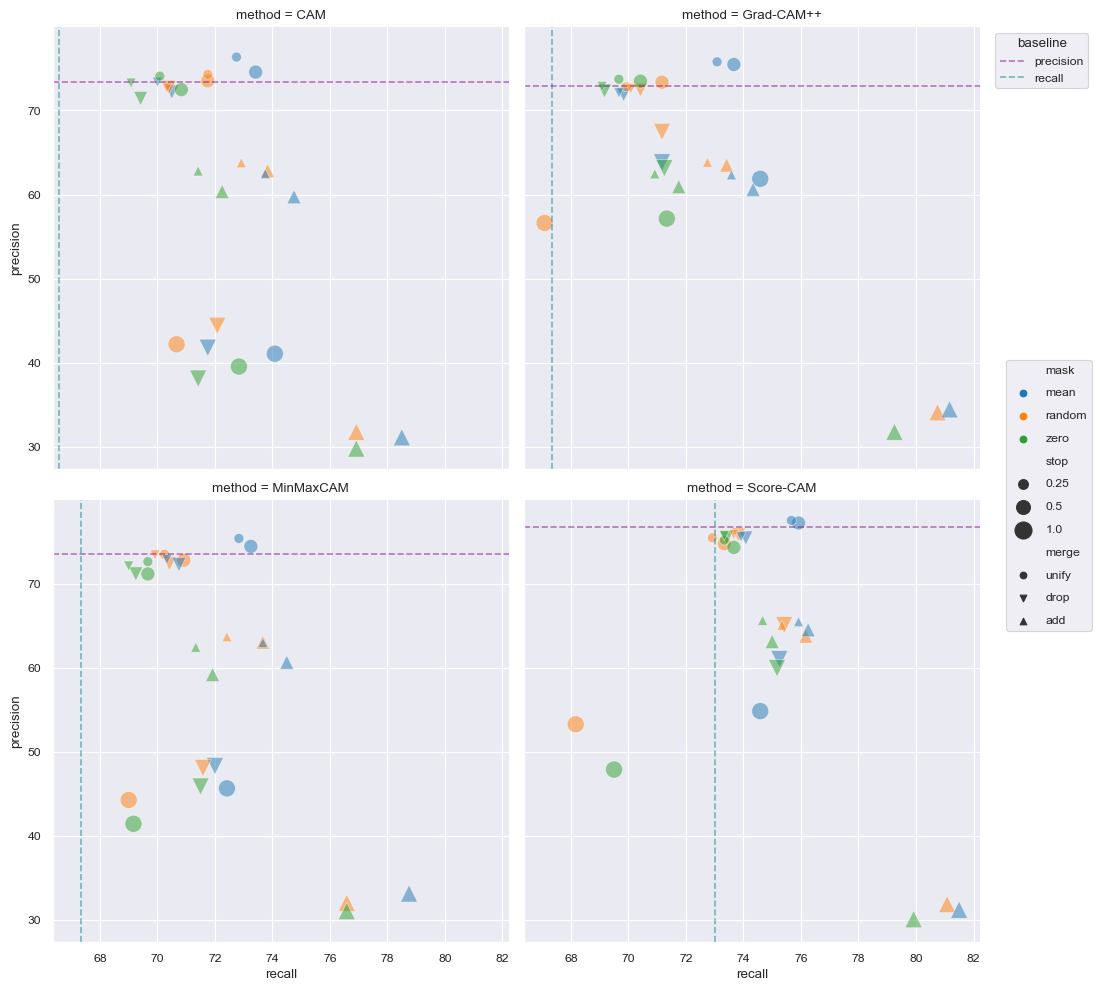
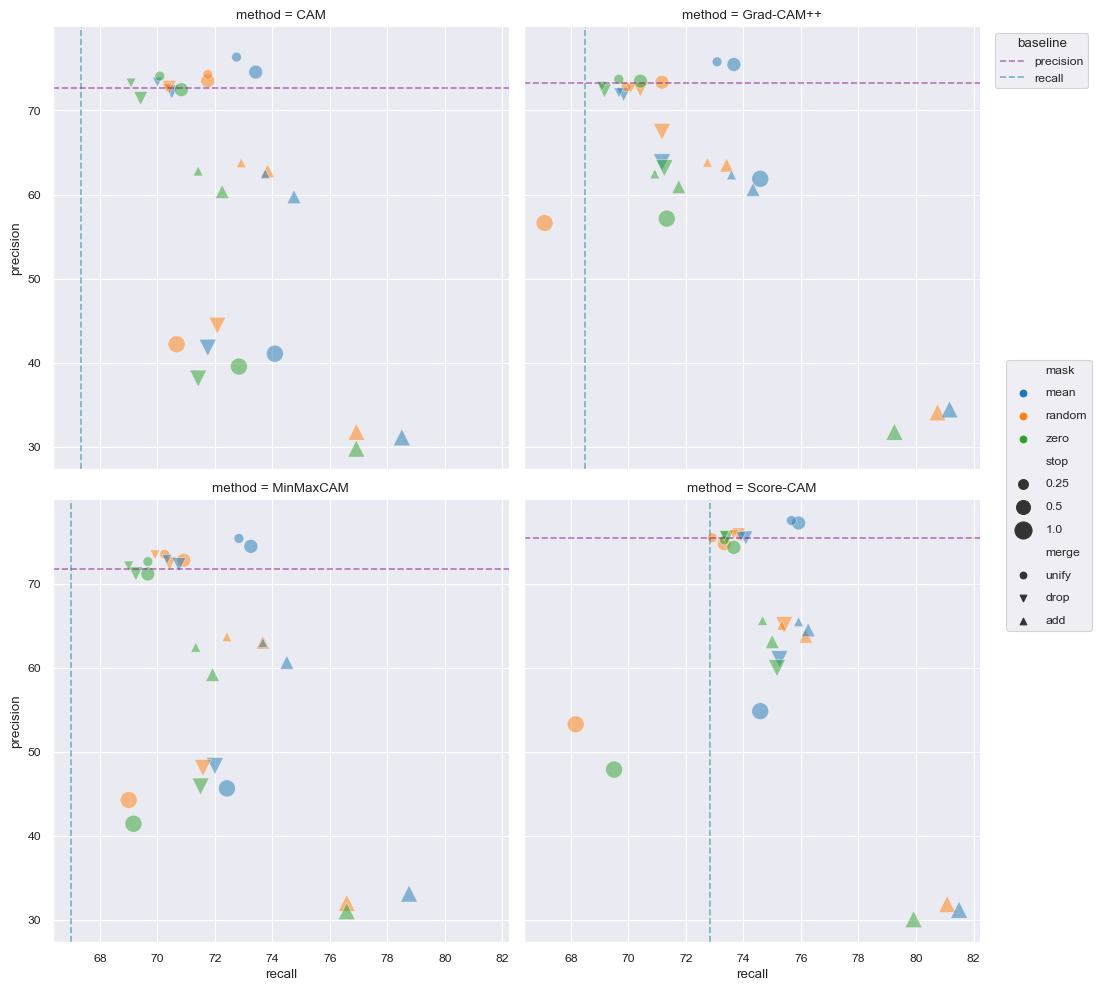
dissertation: discussion, conclusion, summary

diff --git a/docs/dissertation/chapters/experiments.tex b/docs/dissertation/chapters/experiments.tex
@@ -337,18 +337,15 @@ Each method computes a score map as a weighted combination of feature maps in th
 
 The most computationally costly method by far is Score-CAM. This method computes the weights for the feature maps by feeding the network with the product of each feature map with the original image to obtain the classification score after softmax. The classification scores are then used as weights. As ResNet-50 has 2048 channels in its final convolutional layer, this is an expensive operation.
 
-\section{Localization improvements}
+\section{Localization improvements} \label{sec:exp_loc_improvements}
 
 Using the iterative localization method proposed in section \ref{sec:method_localization_improvement}, we analyze the effect of this method for VGG16-GAP and ResNet-50 architectures on the synthetic and ImageNet datasets. We use the same models that were trained for the non-iterative approach.
 
 \subsection{Recall versus precision}
-The aim of the iterative approach is to maximize the accurate localization of ground truth object instances. This is measured by the recall metric. If we would have a localization method that exhaustively generates bounding boxes of different granularity, then such method would accurately localize most object instances and thus have a high recall. At the same time this method would suffer from a lot of false positives, i.e., many localized objects would not match with the actual ground truth instances. Hence, the precision would be low.
-
-To measure the impact of the iterative localization method we want to measure both precision and recall. Ideally, we would like to have a localization method that has good precision and recall. If we equally care about precision and recall, the f1 score represents the harmonic mean between precision and recall.
+The aim of the iterative approach is to improve the accurate localization of ground truth object instances. This localization accuracy is measured by the MaxBoxAccV3 metric, i.e. the recall. If we would have a localization method that exhaustively generates bounding boxes of different granularity, then such method would accurately localize most object instances and thus have a high recall value. At the same time this method would suffer from a lot of false positives, i.e., many of the predicted object localization instances would not match with the actual ground localization annotations. Hence, precision would be very low. To measure the impact of the iterative localization method we want to measure both precision and recall. Ideally, we would like to have a localization method that has good precision and recall.
 
 \subsection{Evaluation approach}
-
-As illustrated in Table \ref{tab:iterative_localizaton_parameters}, the number parameter combinations for iterative localization experiments is too large to draw conclusions from in a single table overview. 
+In our iterative localization approach, we apply different mask strategies, bounding box merge strategies and iteration stop criteria in our experiments. The different parameters and their possible values are illustrated in Table \ref{tab:iterative_localizaton_parameters}. Due to the number of possible parameter combinations, we have to compare a lot of results. It is not feasible to represent these results in a single table and draw conclusions from it.
 
 \begin{table}[ht]
 \centering
@@ -368,9 +365,9 @@ Classification score drop threshold & 0.25, 0.5, 1.0 \\
 
 Therefore we graphically represent and interpret the results as follows:
 \begin{itemize}
-    \item Per dataset, network and localization method, we plot a two-dimensional plot with precision on the  vertical axis and recall on the horizontal axis for the different mask strategies, merge strategies and stop criteria.
+    \item Per dataset, network and localization method, we create a two-dimensional plot with recall on the horizontal axis and precision on the vertical axis. In this plot, for each of the different combinations of mask strategies, merge strategies and stop criteria, an experiment is run and its resulting precision and recall are added to the plot.
     \item The precision and recall for the non-iterative approach is plotted as two orthogonal lines: A horizontal line for precision and vertical line for recall. We use the precision and recall from the non-iterative approach as baseline to compare with results from the iterative approach.
-    \item The horizontal and vertical lines of the baseline create four quadrants which allow easy graphical interpretation of iterative localization results, depending in which quadrant a result is plotted.
+    \item The horizontal and vertical lines of the baseline create four quadrants which allow easy graphical interpretation of iterative localization results depending in which quadrant a result is situated.
     \begin{itemize}
         \item Bottom left: Precision and recall are worse than the baseline.
         \item Top left: Precision is better and recall is worse than baseline.
@@ -380,51 +377,51 @@ Therefore we graphically represent and interpret the results as follows:
 \end{itemize}
 
 \subsection{Evaluation for VGG16-GAP on synthetic datasets}
-Here we evaluate the results of the iterative localization for the VGG16-GAP network on the synthetic test datasets. We only tests the datasets that have images with a background to evaluate the effect of using different bounding box mask strategies. The localization methods used are CAM, Grad-CAM++, Score-CAM and MinMaxCAM. The former three methods are evaluated on a model trained without regularization while the latter is evaluated on a model trained with MinMaxCAM regularization.
+Here we evaluate the results of the iterative localization for the VGG16-GAP network on the synthetic test datasets. We only evaluate datasets that have images with a background to analyse the effect of using different bounding box mask strategies. The localization methods used are CAM, Grad-CAM++, Score-CAM and MinMaxCAM. The former three methods are evaluated on a model trained without regularization while the latter is evaluated on a model trained with MinMaxCAM regularization.
 
 The MaxBoxAccV3 precision and recall of the iterative localization experiments for the different localization methods, mask strategies, merge strategies and iteration stop criteria on the synthetic dataset d1b, are illustrated in Fig. \ref{fig:prec_iter_vgg16_gap_syn_d1b}.
 
 \begin{figure}[ht]
     \begin{center}       
     \includegraphics[width=1.0\textwidth]{images/fig_iter_vgg16_gap_syn_d1b.png}
-    \caption[Iterative localization performance for VGG16-GAP on synthetic dataset d1b]{Iterative localization performance for VGG16-GAP on synthetic datasets d1b. The cross-hair lines mark the best precision and recall for non-iterative localization.}
+    \caption[Iterative localization performance for VGG16-GAP on synthetic dataset d1b]{Iterative localization performance for VGG16-GAP on synthetic dataset d1b. The cross-hair lines mark the best precision and recall for non-iterative localization.}
     \caption*{Source: Author}
     \label{fig:prec_iter_vgg16_gap_syn_d1b}
     \end{center}
 \end{figure}
 
-For all methods we observe that precision is worse than the baseline as no result exists above the baseline precision line. Recall is improved by the iterative localization for CAM, Grad-CAM++ and Score-CAM when using the drop or add merge strategy. The 'add' strategy comes at a greater precision cost, as this strategy will create more false positives. The 'drop' strategy improves recall at the smallest precision cost when the classification score drop threshold 0.25 or 0.5 is used. As threshold 1.0 actually means that there is no stop criterion, it's easy to see that this threshold has the worst precision for any mask or merge strategy. The small gain in recall is to be expected for a dataset with single-instance object images where the non-iterative approach already has a high localization performance.
+When comparing with the baseline, we observe that for all methods except MinMaxCAM, both precision and recall can be improved by using the 'drop' merge strategy, when the classification score drop threshold 0.25 is used. As threshold 1.0 actually means that there is no stop criterion, it's easy to see that this threshold has the worst precision for any mask or merge strategy. The 'add' merge strategy improves recall but at a decreased precision cost, as this strategy will create more false positives. The relatively small gain in recall is to be expected for a dataset with single-instance object images where the baseline already has a high localization performance.
 
-Iterative localization results for the d2b dataset are shown in Fig. \ref{fig:prec_iter_vgg16_gap_syn_d2b}. Looking at the upper right quadrant, we can observe that there are iterative localization methods that improve both precision and recall. The iterative methods applying the mean mask strategy, unify merge strategy and a stop criterion with classification drop threshold of 0.25 or 0.5 provide the best precision and recall improvements. 
+Iterative localization results for the d2b dataset are shown in Fig. \ref{fig:prec_iter_vgg16_gap_syn_d2b}. Looking at the upper right quadrant, we can observe that there are iterative localization methods that improve both precision and recall. The iterative methods applying the mean mask strategy, unify merge strategy and a stop criterion with classification drop threshold of 0.25 or 0.5 provide the best precision and recall improvements compared to the baseline.
 
-The add merge strategy combined without iteration drop criterion (i.e. threshold `1.0) gives the highest recall improvement but at the cost of severe precision drop. The worst performing approach is the unify merge strategy without drop criterion. Intuitively, masking images with bounding boxes found in previous iterations, and unifying newly predicted bounding boxes with overlapping boxes of previous iterations, increases the risk of no longer matching predicted bounding boxes with ground truth boxes, and thus impacting the recall.
+The 'add' merge strategy combined with iteration drop criterion 1.0 gives the highest recall improvement but at the cost of severe precision drop. The worst performing approach is the 'unify' merge strategy with drop criterion 1.0. Intuitively, masking images with bounding boxes found in previous iterations, and unifying newly predicted bounding boxes with overlapping boxes of previous iterations, increases the risk of no longer matching predicted bounding boxes with ground truth boxes, and thus impacting recall.
 
 \begin{figure}[ht]
     \begin{center}       
     \includegraphics[width=1.0\textwidth]{images/fig_iter_vgg16_gap_syn_d2b.png}
-    \caption[Iterative localization performance for VGG16-GAP on synthetic dataset d2b]{Iterative localization performance for VGG16-GAP on synthetic datasets d2b. The cross-hair lines mark the best precision and recall for non-iterative localization.}
+    \caption[Iterative localization performance for VGG16-GAP on synthetic dataset d2b]{Iterative localization performance for VGG16-GAP on synthetic dataset d2b. The cross-hair lines mark the best precision and recall for non-iterative localization.}
     \caption*{Source: Author}
     \label{fig:prec_iter_vgg16_gap_syn_d2b}
     \end{center}
 \end{figure}
 
-The iterative localization results for the d3b dataset are illustrated in Fig. \ref{fig:prec_iter_vgg16_gap_syn_d3b}. We see that the iterative approach can improve both precision and recall for the CAM and Grad-CAM++ method when applying the mean mask strategy combined with unify merge strategy and stop criterion threshold of 0.25 or 0.5. These combinations also improved both recall and precision for the d2b dataset. For MinMaxCAM and Score-CAM, recall can be improved, but always at the cost of decreased precision.
+Fig. \ref{fig:prec_iter_vgg16_gap_syn_d3b} illustrates the iterative localization results for the d3b dataset. We see that the iterative approach can improve both precision and recall for all localization methods. Applying the 'mean' mask strategy, 'unify' merge strategy and stop criterion threshold of 0.25 or 0.5 seems to be the best combination. This combination also improved both recall and precision for the d2b dataset.
 
 \begin{figure}[ht]
     \begin{center}       
     \includegraphics[width=1.0\textwidth]{images/fig_iter_vgg16_gap_syn_d3b.png}
-    \caption[Iterative localization performance for VGG16-GAP on synthetic dataset d3b]{Iterative localization performance for VGG16-GAP on synthetic datasets d3b. The cross-hair lines mark the best precision and recall for non-iterative localization.}
+    \caption[Iterative localization performance for VGG16-GAP on synthetic dataset d3b]{Iterative localization performance for VGG16-GAP on synthetic dataset d3b. The cross-hair lines mark the best precision and recall for non-iterative localization.}
     \caption*{Source: Author}
     \label{fig:prec_iter_vgg16_gap_syn_d3b}
     \end{center}
 \end{figure}
 
-The iterative localization metrics for the d4b dataset are shown in Fig. \ref{fig:prec_iter_vgg16_gap_syn_d4b}. Grad-CAM++ is the only method where both precision and recall can be improved by applying the drop or unify merge strategy combined with zero mask strategy and a classification score drop threshold of 0.25. All other combinations improve recall at the cost of decreasing the precision.
+The iterative localization metrics for the d4b dataset are shown in Fig. \ref{fig:prec_iter_vgg16_gap_syn_d4b}. Both precision and recall can be improved for all methods but MinMaxCAM, by applying the drop or unify merge strategy combined with zero mask strategy and a classification score drop threshold of 0.25. The 'add' merge strategy with stop threshold 1.0 provides the highest gain in recall at the cost of substantially decreasing precision.
 
 \begin{figure}[ht]
     \begin{center}       
     \includegraphics[width=1.0\textwidth]{images/fig_iter_vgg16_gap_syn_d4b.png}
-    \caption[Iterative localization performance for VGG16-GAP on synthetic dataset d4b]{Iterative localization performance for VGG16-GAP on synthetic datasets d4b. The cross-hair lines mark the best precision and recall for non-iterative localization.}
+    \caption[Iterative localization performance for VGG16-GAP on synthetic dataset d4b]{Iterative localization performance for VGG16-GAP on synthetic dataset d4b. The cross-hair lines mark the best precision and recall for non-iterative localization.}
     \caption*{Source: Author}
     \label{fig:prec_iter_vgg16_gap_syn_d4b}
     \end{center}
@@ -432,9 +429,9 @@ The iterative localization metrics for the d4b dataset are shown in Fig. \ref{fi
 
 \subsection{Evaluation for ResNet-50 on ImageNet dataset}
 
-The iterative localization methods for the ResNet-50 network evaluated on the ImageNet validation dataset, are shown in Fig. \ref{fig:prec_iter_resnet50_imagenet}. The best performing iterative localization methods are those that are positioned closest to the upper right corner of the plot. Observing the plots for all localization methods, we can see two distinct groups of iterative approaches: One group that improves recall at the cost of decreasing precision, and another group that performs worse for both precision and recall when compared to the baseline.
+The results of the iterative localization methods for the ResNet-50 network, evaluated on the ImageNet validation dataset, are shown in Fig. \ref{fig:prec_iter_resnet50_imagenet}. The best performing methods are those that are positioned closest to the upper right corner of the plot. Observing the plots for all localization methods, we can see two distinct groups: One group that improves recall at the cost of decreasing precision, and another group that performs worse for both precision and recall when compared to the baseline.
 
-The first group consists of the methods that apply as merge strategy either 'drop' or 'add', where the add strategy gives a substantially higher gain in recall, but at a higher drop in precision. In this group, there is an almost linear relationship between precision and recall and the applied classification score drop threshold for a certain merge strategy. In the second group are the iterative localization methods that apply a unify merge strategy. Intuitively, unifying predicted bounding boxes from previous iterations with newly predicted bounding boxes increases the risk generating larger but few bounding boxes, and thus impacting both precision and recall.
+The first group consists of the methods that apply as merge strategy either 'drop' or 'add', where the 'add' strategy gives a substantially higher gain in recall, but at a higher drop in precision. In this group, there is an almost linear relationship between precision and recall and the applied classification score drop threshold for a certain merge strategy. In the second group are the iterative localization methods that apply a unify merge strategy. Intuitively, unifying predicted bounding boxes from previous iterations with newly predicted bounding boxes increases the risk generating larger but few bounding boxes, and thus impacting both precision and recall.
 
 \begin{figure}[ht]
     \begin{center}       
@@ -444,3 +441,4 @@ The first group consists of the methods that apply as merge strategy either 'dro
     \label{fig:prec_iter_resnet50_imagenet}
     \end{center}
 \end{figure}
+

diff --git a/docs/dissertation/chapters/discussion.tex b/docs/dissertation/chapters/discussion.tex
@@ -17,7 +17,9 @@ The threshold-independent localization metric MaxBoxAccV3 recall (MaxBoxAccV3 in
 \section{Classification versus localization accuracy}
 When comparing classification accuracy with localization accuracy (MaxBoxAccV3 recall) during training, we observed that there is a correlation between both metrics. Fig. \ref{fig:loc_vs_acc_vgg16_gap_cam_synthetic} illustrates that classification accuracy and CAM localization accuracy (MaxBoxAccV3 recall) for VGG16-GAP on each of the validation synthetic datasets, improve during the early epochs of training, until both metrics start converging.
 
-In some cases, the best localization performances are achieved before convergence. At early epochs, the localization can fluctuate a lot and thus, peak performance could be noise, rather than real performance. Fig. \ref{fig:loc_vs_acc_resnet50_cam_d1b} illustrates this for the CAM localization method on ResNet-50 for the d1b synthetic dataset. To avoid measuring noise, we use an early stop criterion that stops training when classification accuracy has not improved the best accuracy during 5 epochs. We take as localization accuracy the value computed at the last epoch on the validation dataset.
+A question is then which checkpoint during training is suitable for localization evaluation? Choe \textit{et al.} \cite{choe2020evaluating} argue that in many cases, the best localization performances are achieved before convergence, that at early epochs, the localization can fluctuate a lot and thus, peak performance is noise rather than real performance. Fig. \ref{fig:loc_vs_acc_resnet50_cam_d1b} illustrates such case for the CAM localization method on ResNet-50 for the d1b synthetic dataset. We clearly see that the maximum value for MaxBoxAccV3 is reached during the early training epochs, and drops around epoch 10 before converging.
+
+To avoid measuring noise, we use an early stop criterion that ends model training when classification accuracy has not improved the best accuracy for five consecutive training epochs. We then take as localization accuracy the value computed at the last epoch on the validation dataset.
 
 \begin{figure}[ht]
 \begin{center}
@@ -27,3 +29,12 @@ In some cases, the best localization performances are achieved before convergenc
     \label{fig:loc_vs_acc_resnet50_cam_d1b}
 \end{center}
 \end{figure}
+
+\section{Iterative localization}
+The results of the iterative localization experiments in section \ref{sec:exp_loc_improvements} showed that localization accuracy can be improved using the iterative approach on all localization metrics. Depending on the mask strategy, merge strategy and chosen stop criterion recall can be improved substantially. In most cases, recall improvement comes at the cost of precision loss when compared with the baseline.
+
+The two parameters that are most important for improving recall, are the merge strategy and the iteration stop criterion. The mask strategy has smaller impact on the recall. 
+
+For the synthetic datasets with multiple object instances and in the ImageNet dataset, the experiments using the 'add' merge strategy and iteration stop threshold 1.0 have the most substantial gain in recall but at a large impact on precision. It is easy to see that in this scenario each iteration potentially adding more bounding boxes, potentially increases matches  or mismatches between predicted and ground truth bounding boxes, hence increasing recall in the former and decreasing precision in the latter case.
+
+The experiments with the large and diverse ImageNet dataset shows that is quite some room for improving localization accuracy. However, the current iterative approach stills suffers from substantial loss in precision. In our current approach we use bounding boxes predicted in previous iterations as image masks to predict new boxes. As future work it would be interesting to evaluate using the more fine-grained score map as an image mask for improving precision.

diff --git a/docs/dissertation/chapters/samenvatting.tex b/docs/dissertation/chapters/samenvatting.tex
@@ -1,1 +1,9 @@
 \chapter*{Samenvatting}
+
+Weakly-supervised object localization (WSOL) heeft aan populariteit gewonnen wegens de eigenschap dat netwerk modellen, getrained met beeldbestanden waarvoor enkel class labels beschikbaar zijn, kunnen gebruikt worden voor object localisatie. De class activation mapping (CAM) familie van localisatie methodes, focust op verschillende strategieën om objecten te bevatten en localiseren. Echter, deze methodes gebruiken vaak verschillende metrieken om object localisatie te meten. Deze metrieken zijn geen goede maat voor het meten van localisatie van  meerdere object instanties in beelden.
+
+In dit werk stellen we een multi-instance object localisatie evaluatie protocol voor. Dit protocol breidt bestaande metrieken uit om het meten van localisatie van meerdere object instanties mogelijk te maken. Deze methode maakt gebruik van de standaard classificatie taak en vereist geen wijzigingen van netwerken.
+
+We stellen vast dat, gebruik makend van ons evaluatie protocol voor gebruikte CAM-gebaseerde localizatie modellen, de localisatie performantie daalt naarmate er meer object instanties aanwezig zijn in beelden. Dit toont aan dat onze metrieken localisatie nauwkeurigheid kwantitatief meten. We zullen de geëvalueerde modellen gebruiken als basis voor het evalueren van localisie verbeteringen.
+
+Om localisatie nauwkeurigheid te verbeteren, introduceren we een iteratieve localisatie methode. Hiervoor gebruiken we reeds gevonden localisatie informatie uit vorige iteraties, om beelden te maskeren en voor het vinden van niewe object instanties. We tonen aan dat de manier waarop we localisatie informatie uit verschillende iteraties samenvoegen, de localisatie nauwkeurigheid behoorlijk kan verbeteren. Dit gaat wel vaak ten koste van de localisatie precisie, waarbij meer en meer localisaties foutief objecten aanduiden. Als toekomstig werk geven we het gebied aan waarop gefocust kan worden voor het verbeteren van localisatie precisie.

diff --git a/docs/dissertation/chapters/conclusion.tex b/docs/dissertation/chapters/conclusion.tex
@@ -1,9 +1,8 @@
 \chapter{Conclusion}
 
 % feedback Benjamin
+In this work we introduce a new method to evaluate \acrfull{mwsol}. We have argued that none of existing \acrshort{wsol} evaluation metrics are suited to quantitatively measure multi-instance localization performance. We have then proposed a new evaluation methodology to measure multi-instance object localization accuracy. Our method relies only on standard classification models. Using this protocol, we've evaluated different CAM-based localization methods on synthetic datasets and on ImageNet.
 
--	Afronden \\
--	Kort het verhaal uitleggen \\
--	In this thesis we instroduced a new method to evaluate multi-instance wsol \\
--	This are our conclusions... \\
--	Bestaande methodes niet voldoende maar onze methode doet het beter in die en die opzichten. \\
+We show that multi-instance localization precision and recall metrics decrease for images with increasing number of object instances, and that this is valid for both networks without and with MinMaxCAM-regularization. We also argued that classification and localization accuracy are correlated while training a model, and the importance of using a trained network that has converged to reliably measure localization performance.
+
+Finally, we propose a novel iterative localization approach using previously predicted object localization annotations as input to improve localization accuracy. We demonstrate that localization accuracy can be improved using the right strategy to combine iterative predictions. We then formulate future work for improving the localization precision of the iterative approach.

diff --git a/docs/dissertation/chapters/summary.tex b/docs/dissertation/chapters/summary.tex
@@ -1,2 +1,9 @@
 \chapter*{Summary}
 
+Weakly-supervised object localization (WSOL) has gained popularity for its promise to train localization models with only image-level labels. The class activation mapping (CAM) family of localization methods focus on different strategies to cover and localize objects. However, these methods use different metrics to measure object localization. Moreover, these metrics do not quantitatively measure localization of multiple object instances in images.
+
+In this work we propose a multi-instance object localization evaluation protocol. This protocol enhances existing metrics to take into account localization of multiple instances. Our method uses the standard classification task and requires no additional modifications to networks.
+
+We observe that under our evaluation protocol, evaluated CAM-based localization models show decreasing performance for images with increasing number of object instances per image, demonstrating that our metrics quantitatively capture object localization accuracy. We use the evaluated models as baseline for further localization improvements.
+
+To improve localization accuracy, we introduce an iterative localization approach, where we use predicted localization annotations found during previous iterations, to mask input images and to find additional object instances. We demonstrate that the merge strategy to combine localization information of multiple iterations can improve localization accuracy substantially, but often at the cost of decreased precision. Finally we point out future work to improve both localization accuracy and precision.
